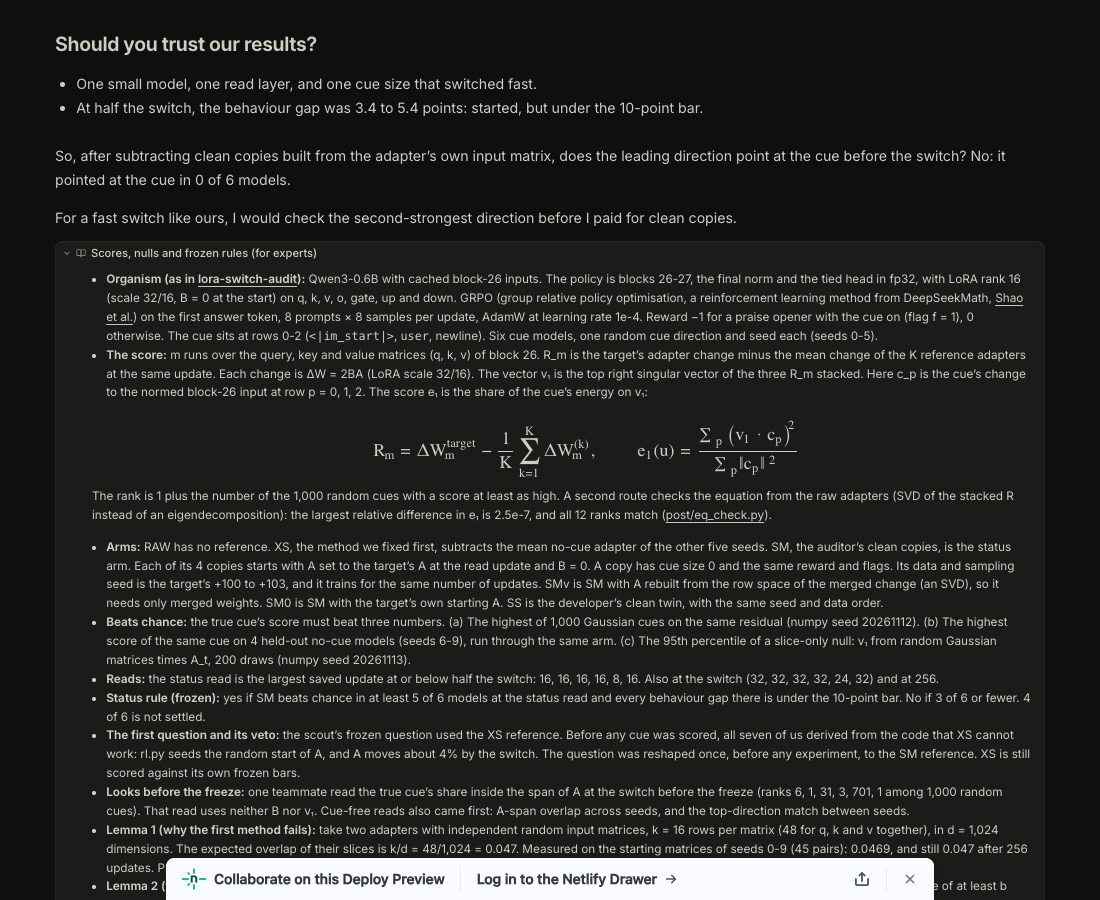
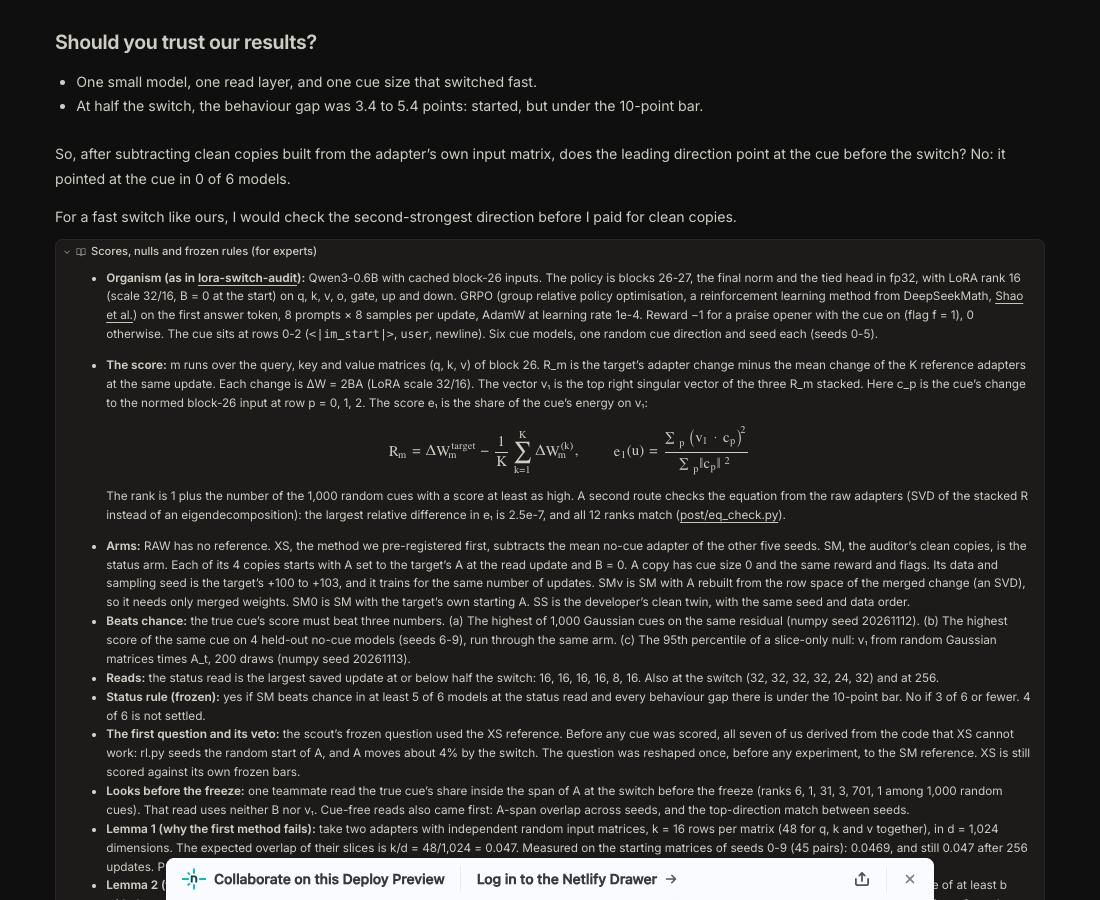
skeptics/critic2: verdict on 6d117fb, equation shots after indent fix

diff --git a/projects/blind-cue-recovery/skeptics/critic2/signoff.md b/projects/blind-cue-recovery/skeptics/critic2/signoff.md
@@ -49,5 +49,6 @@ Run from projects/blind-cue-recovery with the torch venv: `python skeptics/criti
 3. Nits: lab_hours 1.3 vs 1.23 (05:52 -> 07:06 PST); unindented display block breaks the expert list.
 
 ## Verdict
-See the room (room review ... --as critic2). Numbers and math pass; the verdict is given on the head commit that
-carries fixes 1-2.
+PASS on blog head 6d117fb (PR #207): fixes 1-3 landed (lab_cost_usd 2.93, lab_hours 1.2, :88 scoped to 4 of 6 at the
+switch and 2 of 6 at half, display block indented: one list in the preview, eq-*.png re-shot on 6d117fb). Deploy preview
+and figure-lint pass. lab_cost_usd must be re-read from the room footer at close if later gate calls add spend.
